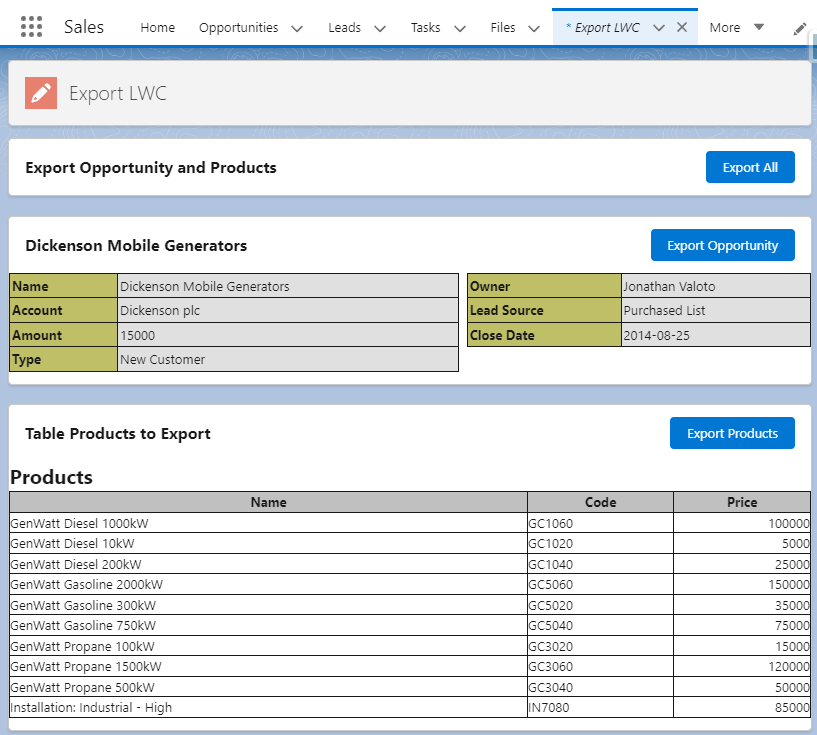
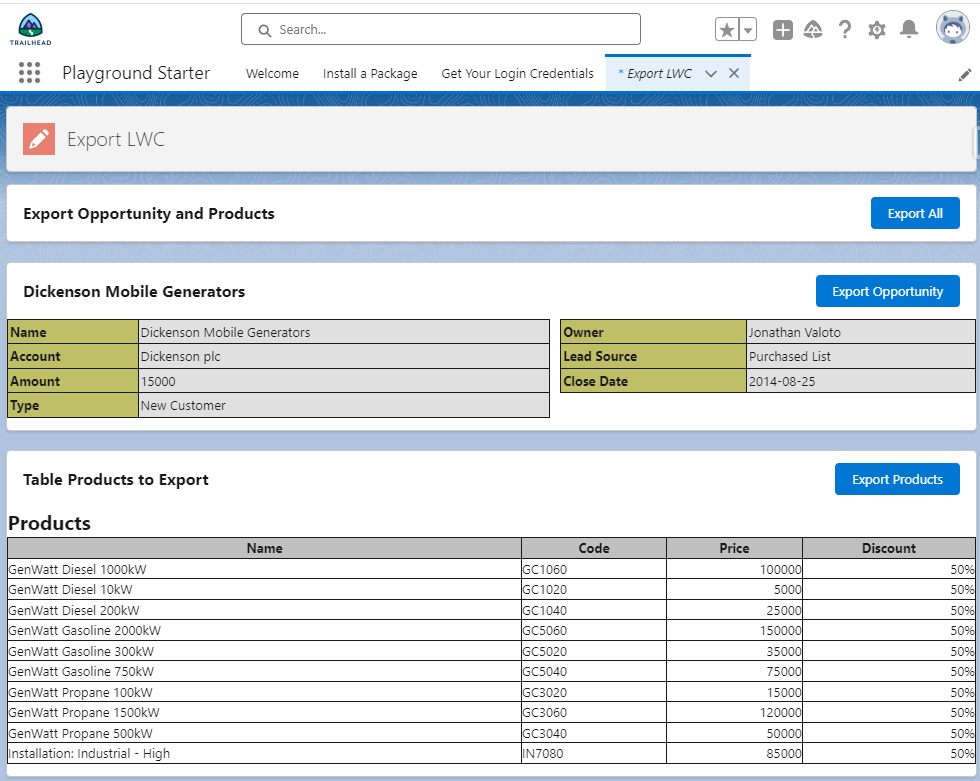
column width and hidden

diff --git a/force-app/main/default/lwc/export_xlsx/export_xlsx.js b/force-app/main/default/lwc/export_xlsx/export_xlsx.js
@@ -49,7 +49,6 @@ export function exportXLSX(config, fileName){
                 let dataType = config[i].table.rows[j].cells[k].getAttribute("data-xls-type");
                 let dataStyle = config[i].table.rows[j].cells[k].getAttribute("data-xls-style");
                 let dataValue = config[i].table.rows[j].cells[k].getAttribute("data-xls-value");
-                let colWidth = config[i].table.rows[j].cells[k].getAttribute("data-xls-width");
                 let colspan = config[i].table.rows[j].cells[k].getAttribute("colspan");
                 let rowspan = config[i].table.rows[j].cells[k].getAttribute("rowspan");
 
@@ -60,10 +59,6 @@ export function exportXLSX(config, fileName){
                 }else if(!isNaN(dataValue)){
                     dataType = 'Number';
                     dataValue = parseFloat(dataValue);
-                }
-
-                if(colWidth){
-                    columns += `<Column ss:Width="${colWidth}"/>`;
                 }
 
                 let cellCTX = {
@@ -78,6 +73,17 @@ export function exportXLSX(config, fileName){
             }
 
             rowsXML += '</Row>';
+        }
+
+        if(config[i].columns){
+            config[i].columns.forEach(column =>{
+                let columnCTX = {
+                    width: column.width ? ` ss:Width="${column.width}" ` : '',
+                    hidden: column.hide ? ` ss:Hidden="1" ` : '',
+                };
+
+                columns += format(getTemplateColumn(), columnCTX);
+            });
         }
 
         // workbook config
@@ -160,5 +166,11 @@ function getTemplateCell(){
         <Cell {attributeStyleID} {colspan} {rowspan}>
             <Data ss:Type="{nameType}">{data}</Data>
         </Cell>
+    `;
+}
+
+function getTemplateColumn(){
+    return `
+        <Column {width} {hidden} />
     `;
 }

diff --git a/force-app/main/default/lwc/export_example_products/export_example_products.html b/force-app/main/default/lwc/export_example_products/export_example_products.html
@@ -17,12 +17,14 @@
                     <td data-xls-style="p-col-title" data-xls-width="150" class="default title">Name</td>
                     <td data-xls-style="p-col-title" data-xls-width="100" class="default title">Code</td>
                     <td data-xls-style="p-col-title" class="default title">Price</td>
+                    <td data-xls-style="p-col-title" class="default title">Discount</td>
                 </tr>
                 <template for:each={products} for:item="product">
                     <tr key={product.key}>
                         <td data-xls-style="p-col-value-text" class="default text">{product.Product2.Name}</td>
                         <td data-xls-style="p-col-value-text" class="default text">{product.Product2.ProductCode}</td>
                         <td data-xls-style="p-col-value-money" data-xls-type="Number" class="default number">{product.UnitPrice}</td>
+                        <td data-xls-style="p-col-value-percent" data-xls-type="Number" data-xls-value="0.5" class="default number">50%</td>
                     </tr>
                 </template>
             </table>

diff --git a/force-app/main/default/lwc/export_example_products/export_example_products.js b/force-app/main/default/lwc/export_example_products/export_example_products.js
@@ -39,7 +39,13 @@ export default class Export_example_products extends LightningElement{
             tabName: 'Products',
             displayGrid: false,
             zoom: 90,
-            style: this.getXLSStyle()
+            style: this.getXLSStyle(),
+            columns:[
+                {width: 150},
+                {width: 100},
+                {width: 50},
+                {width: 50, hidden: true},
+            ]
         };
     }
 

diff --git a/README.md b/README.md
@@ -26,6 +26,9 @@ The message that is shown when you open this type of file are always displayed, 
   - [Get HTML table](#get-html-table)
     - [Using fixed HTML table](#using-fixed-html-table)
     - [Using backend dynamic table](#using-backend-dynamic-table)
+- [Attributes](#attributes)
+  - [HTML XLS](#html-xls)
+  - [JSON](#json)
 - [Tips](#tips)
   - [Code](#code)
   - [Style](#style)
@@ -35,7 +38,6 @@ The message that is shown when you open this type of file are always displayed, 
 - [How to corrupt your file](#how-to-corrupt-your-file)
   - [Should](#should)
   - [Shouldn't](#shouldnt)
-- [HTML XLS Attributes](#html-xls-attributes)
 - [Deploy and Test](#deploy-and-test)
 
 # Microsoft Documentation
@@ -79,11 +81,11 @@ import { exportXLSX } from 'c/export_xlsx';
 @api
 getXLSConfig(){
     return {
-        table: this.refs.opportunityTable,  // table from lwc
-        tabName: 'Opportunity',             // worksheet name
-        displayGrid: true,                  // show or hide gridlines
-        zoom: 120,                          // default zoom
-        style: this.getXLSStyle()           // <Style> xml tags
+        table: this.refs.opportunityTable,
+        tabName: 'Opportunity',
+        displayGrid: true,
+        zoom: 120,
+        style: this.getXLSStyle()
     };
 }
 ```
@@ -160,6 +162,31 @@ getXLSConfig()(){
     this.template.querySelector("#dynamicTable")
 }
 ```
+
+# Attributes
+
+## HTML XLS 
+
+All attributes are optional.
+
+|Tag|Description|Additional information|
+|-|-|-|
+|data-xls-style|`ss:ID` of the XML Style|Only one per html tag|
+|data-xls-type|Type of value|`Number/DateTime/Boolean/String`|
+|data-xls-value|Value to export|e.g: use this attribute to show formatted values in LWC but export only numbers to XLSX file<br>If blank will use `innerHTML` of `<td>` html tag|
+|colspan|HTML default tag|Used to merge horizontal cells|
+
+## JSON
+
+>getXLSConfig()
+
+|Attribute|Type|Default value|Description|
+|-|-|-|-|
+|tabName|$(table)|-|LWC reference table|
+|displayGrid|boolean|true|Show gridlines|
+|zoom|Decimal|100|Worksheet zoom|
+|style|String (Array of `<Style>`)|`''`|String with an Array of `<Style>`|
+|columns|Array<{width: Decimal, hidden: boolean}>|[]|Array of column definition<br>If you use this config, you need to specify exact number of columns|
 
 # Tips 
 
@@ -260,18 +287,6 @@ XML file is sensitivity and will corrupt if something is wrong.
 - use specific html tags such as:
     - `<hr>`
     - `<br>`
-
-# HTML XLS Attributes
-
-All `data-xls-*` attributes are optional.
-
-|Tag|Description|Additional information|
-|-|-|-|
-|data-xls-style|`ss:ID` of the XML Style|Only one per html tag|
-|data-xls-type|Type of value|`Number/DateTime/Boolean/String`|
-|data-xls-value|Value to export|e.g: use this attribute to show formatted values in LWC but export only numbers to XLSX file<br>If blank will use `innerHTML` of `<td>` html tag|
-|data-xls-width|Width of column|You need to apply this tag just in `<td>` tags only for the first `<tr>`<br>If blank will be set as default (± 64)|
-|colspan|HTML default tag|Used to merge horizontal cells|
 
 # Deploy and Test
 
